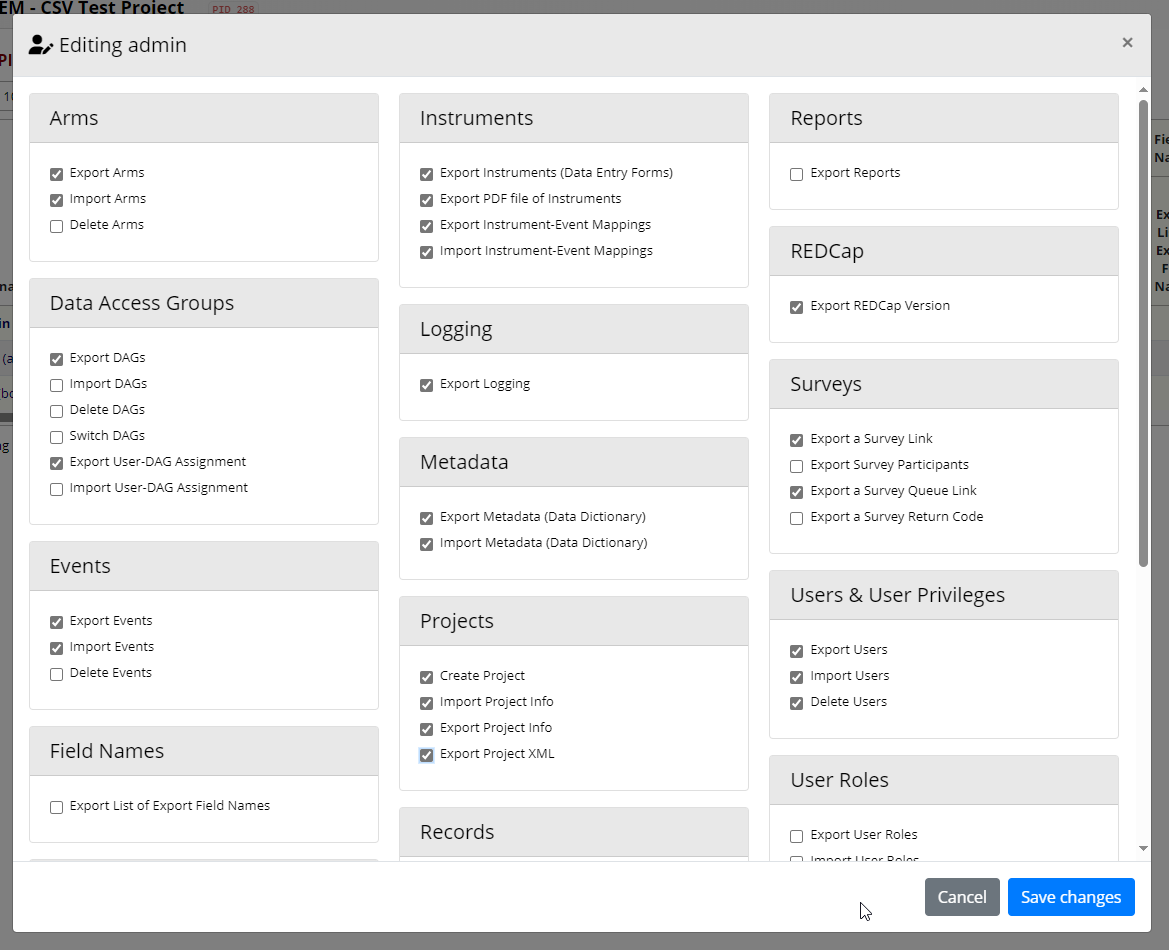
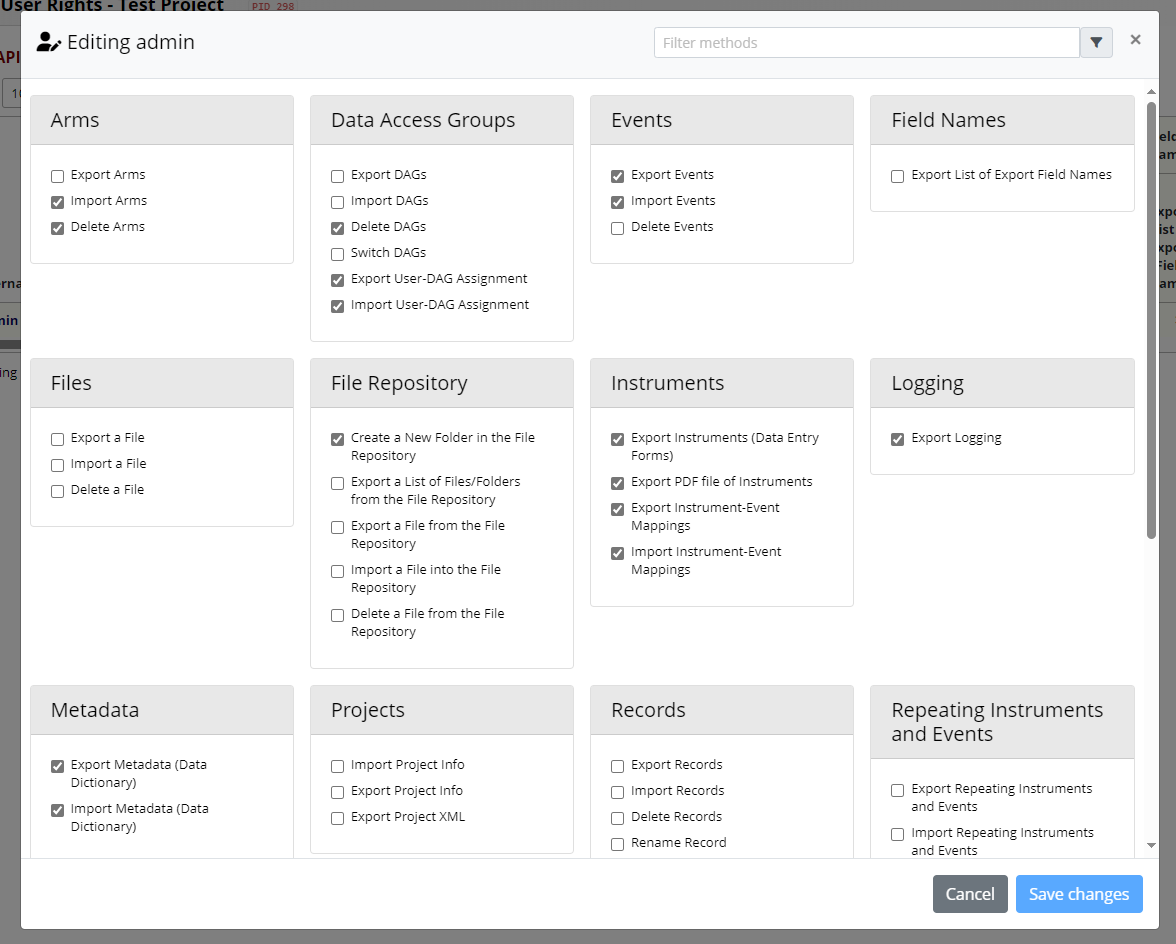
Make it prettier

diff --git a/api_user_rights.php b/api_user_rights.php
@@ -24,7 +24,7 @@ $headerInfo = $module->getTableHeader();
     tabindex="-1" id="editor">
     <div class="modal-dialog modal-dialog-scrollable modal-xl">
         <div class="modal-content">
-            <div class="modal-header" style="background-color: #aaa;">
+            <div class="modal-header bg-light">
                 <h5 class="modal-title nowrap"></h5>
                 <div class="d-flex justify-content-end w-100">
                     <div class="input-group input-group-sm mb-1 w-50">
@@ -49,7 +49,7 @@ $headerInfo = $module->getTableHeader();
                         <?php foreach ( $headerInfo["sections"] as $section => $methods ) { ?>
                             <div class="col card-container px-2">
                                 <div class="card mb-3">
-                                    <h5 class="card-header" style="background-color:#00000017;">
+                                    <h5 class="card-header bg-light">
                                         <?= $section ?>
                                     </h5>
                                     <div class="card-body">

diff --git a/README.md b/README.md
@@ -6,8 +6,11 @@ This external module allows users with User Rights permission in a project to co
 ![Example1](api_user_rights_project_page.png)
 *Example of the API User Rights link on the project page*
 
-![Example2](api_user_rights_editor.png)
+![Example2](api_user_rights_selecting_methods.gif)
 *API User Rights editor*
+
+![Example3](api_user_rights_filtering_methods.gif)
+*Filtering methods in the editor*
 
 ## Installation
 Install through the REDCap Repo
@@ -17,8 +20,9 @@ No system or project configuration is required. Once installed and enabled in a 
 
 ## Changelog
 
-Version | Release Date | Description
-----|----|----
-1.0.2| 2023-10-16 | Added filter bar to API User Rights editor
-1.0.0| 2023-10-12 | Initial release
+| Version | Release Date | Description                                |
+| ------- | ------------ | ------------------------------------------ |
+| 1.0.3   | 2023-10-17   | Aesthetic changes to the editor            |
+| 1.0.2   | 2023-10-16   | Added filter bar to API User Rights editor |
+| 1.0.0   | 2023-10-12   | Initial release                            |
 
